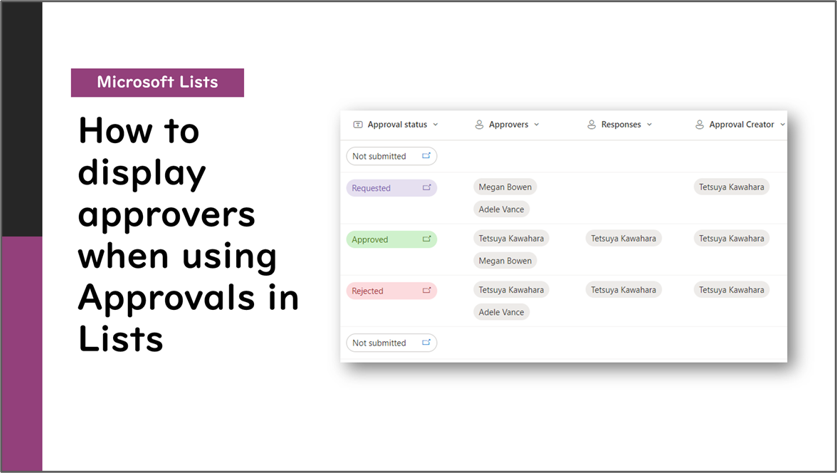
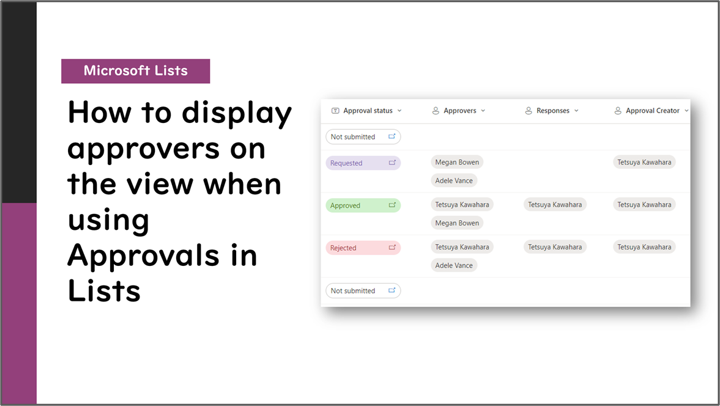
FIxed title

diff --git a/content/post/how-to-display-approvers-when-using-approvals-in-lists/index.md b/content/post/how-to-display-approvers-when-using-approvals-in-lists/index.md
@@ -1,5 +1,5 @@
 ---
-title: "Microsoft Lists: How to display approvers when using Approvals in Lists"
+title: "Microsoft Lists: How to display approvers on the view when using Approvals in Lists"
 date: 2024-05-30T00:00:00-00:00
 author: "Tetsuya Kawahara"
 githubname: tecchan1107
